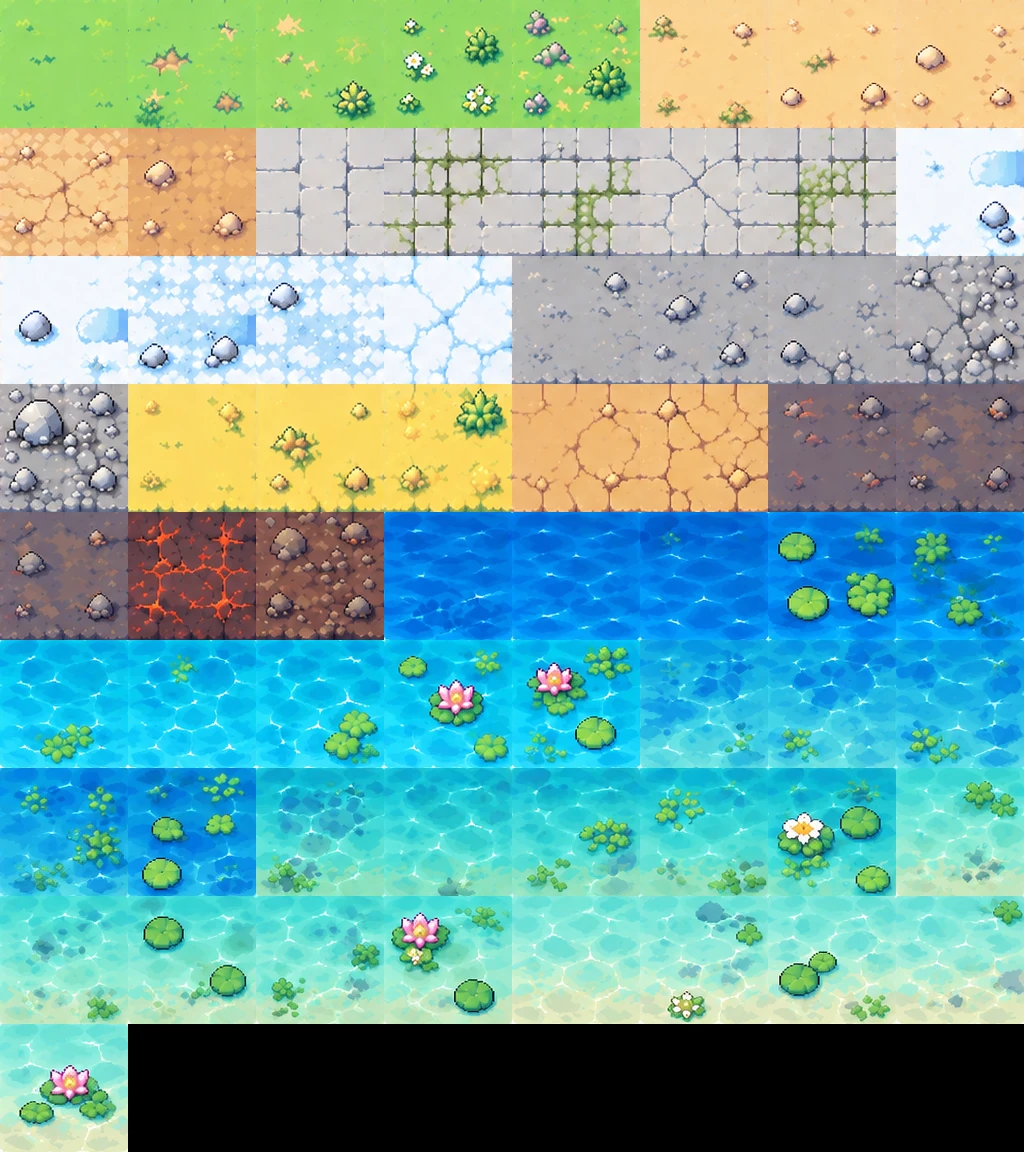
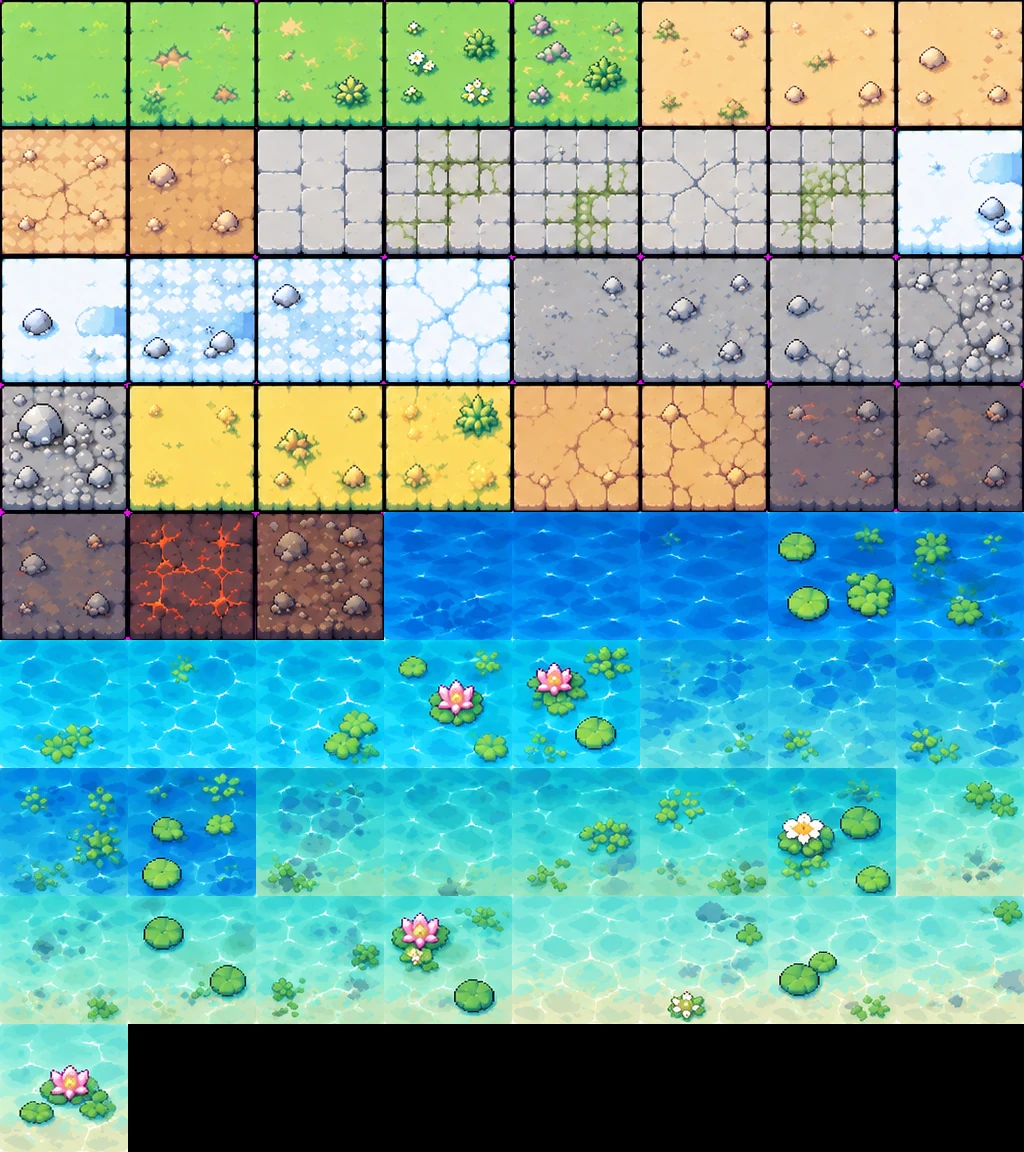
Ô đất giữ viền đen, nhỏ còn 1/4 (2×2 mỗi ô bản đồ); nước giữ nguyên (#7)
Claude-Session: https://claude.ai/code/session_018b6HgGmd6jx7c3MYzMWrTn

Changed region(s): [[0.0, 0.0, 1.0, 0.5625]]

diff --git a/src/map/map.js b/src/map/map.js
@@ -31,6 +31,7 @@ export async function createMap(def, terrainDef, tilesDef) {
     return list;
   });
   const isWater = types.map((t) => t.id.startsWith('nuoc'));
+  const subdiv = types.map((t) => t.grid || 1);
 
   const wrapX = (x) => ((x % width) + width) % width;
   const wrapY = (y) => ((y % height) + height) % height;
@@ -62,17 +63,24 @@ export async function createMap(def, terrainDef, tilesDef) {
         const gx = ((tx % W) + W) % W;
         const kind = grid[gy * W + gx];
         const opts = pickers[kind];
-        const h = hash(gx, gy);
-        const [sx, sy] = opts[Math.floor(h * opts.length)];
-        const flip = !isWater[kind] && hash(gy, gx) > 0.5;
-        if (flip) {
-          ctx.save();
-          ctx.translate(tx * T + T, ty * T);
-          ctx.scale(-1, 1);
-          ctx.drawImage(atlas, sx, sy, S, S, 0, 0, T + 0.5, T + 0.5);
-          ctx.restore();
-        } else {
-          ctx.drawImage(atlas, sx, sy, S, S, tx * T, ty * T, T + 0.5, T + 0.5); // chồng 0.5 để không hở khe trên màn hình mật độ lẻ
+        const g = subdiv[kind];
+        const st = T / g; // cạnh ô vẽ: đất chia 2×2 (ô nhỏ có viền đen), nước 1 ô liền
+        for (let j = 0; j < g; j++) {
+          for (let i = 0; i < g; i++) {
+            const hx = gx * g + i, hy = gy * g + j;
+            const [sx, sy] = opts[Math.floor(hash(hx, hy) * opts.length)];
+            const dx = tx * T + i * st, dy = ty * T + j * st;
+            // chồng 0.5 để không hở khe trên màn hình mật độ lẻ
+            if (!isWater[kind] && hash(hy, hx) > 0.5) {
+              ctx.save();
+              ctx.translate(dx + st, dy);
+              ctx.scale(-1, 1);
+              ctx.drawImage(atlas, sx, sy, S, S, 0, 0, st + 0.5, st + 0.5);
+              ctx.restore();
+            } else {
+              ctx.drawImage(atlas, sx, sy, S, S, dx, dy, st + 0.5, st + 0.5);
+            }
+          }
         }
       }
     }

diff --git a/tools/tiles_atlas.py b/tools/tiles_atlas.py
@@ -3,7 +3,8 @@
 Dùng: python3 -I tools/tiles_atlas.py
 Vào:  assets/tiles/_source-o-dat-nuoc.png (nền hồng, trái 5×7 ô đất, phải 5×6 ô nước)
 Ra:   assets/tiles/atlas.webp + data/tiles.json (tên ô → vị trí trong atlas)
-Mỗi ô bỏ viền đen và mép trang trí rồi chuẩn hoá về 128×128 để xếp liền không lộ đường kẻ.
+Ô ĐẤT giữ nguyên viền đen (thiết kế của chủ dự án — tạo lưới ô); ô NƯỚC bỏ viền để nước liền mạch.
+Mỗi ô chuẩn hoá về 128×128.
 """
 import json
 from pathlib import Path
@@ -20,9 +21,8 @@ COLS = 8
 
 GROUND_ROWS = ['co', 'cat', 'da-lat', 'tuyet', 'soi', 'dat-kho', 'dat-den']
 WATER_ROWS = ['nuoc-sau', 'nuoc-lam', 'nuoc-vua', 'nuoc-ngoc', 'nuoc-nong', 'nuoc-ven-bo']
-BOTTOM_FRINGE = {'co', 'tuyet'}  # hàng có mép trang trí ở đáy
-INSET = 6
-INSET_BOTTOM_FRINGE = 13
+INSET_GROUND = 1  # chỉ bỏ 1 điểm ảnh lẫn nền hồng, giữ viền đen
+INSET_WATER = 6   # bỏ viền đen cho nước liền
 
 
 def find_cells(rgb):
@@ -57,11 +57,10 @@ def main():
     assert len(left) == len(GROUND_ROWS) and len(right) == len(WATER_ROWS), (len(left), len(right))
 
     tiles = []
-    for names, rows in ((GROUND_ROWS, left), (WATER_ROWS, right)):
+    for names, rows, inset in ((GROUND_ROWS, left, INSET_GROUND), (WATER_ROWS, right, INSET_WATER)):
         for name, row in zip(names, rows):
             for i, (x, y, w, h) in enumerate(row, start=1):
-                bottom = INSET_BOTTOM_FRINGE if name in BOTTOM_FRINGE else INSET
-                crop = img.crop((x + INSET, y + INSET, x + w - INSET, y + h - bottom))
+                crop = img.crop((x + inset, y + inset, x + w - inset, y + h - inset))
                 tiles.append((f'{name}-{i}', crop.resize((SIZE, SIZE), Image.LANCZOS)))
 
     rows_n = -(-len(tiles) // COLS)

diff --git a/docs/02-DU-LIEU.md b/docs/02-DU-LIEU.md
@@ -26,6 +26,7 @@ Cấp độ hiếm (không phải màu): `luc, lam, tim, vang, cam, do, nau, den
 ## Bản đồ (từ 2026-10-20)
 - Mỗi khu có `data/zones/<id>.json` (thông số) và `data/zones/<id>.map.png` (ảnh bản đồ: **mỗi điểm ảnh = 1 ô**).
 - Màu điểm ảnh ↔ loại địa hình nằm ở `data/terrain.json` (đi được, tốc độ, cấp quái `tier`, ô dùng để vẽ).
+- Ô đất **giữ viền đen** và vẽ nhỏ: mỗi ô bản đồ (32 điểm) chia 2×2 ô đất 16 điểm (`grid: 2` trong `terrain.json`); nước 1 ô liền, không viền.
 - Ô vẽ lấy từ atlas `assets/tiles/atlas.webp`, chỉ mục ở `data/tiles.json` (sinh bằng `tools/tiles_atlas.py`).
 - Bản đồ sinh bằng `tools/gen_map.py`; cũng có thể **sửa tay bằng app vẽ** — chỉ cần tô đúng màu trong `terrain.json`.
 - Bản đồ vòng lặp: kích thước thế giới (`data/config.json` → `world`) phải khớp hằng `c_world` trong hàm SQL `save_position`.
